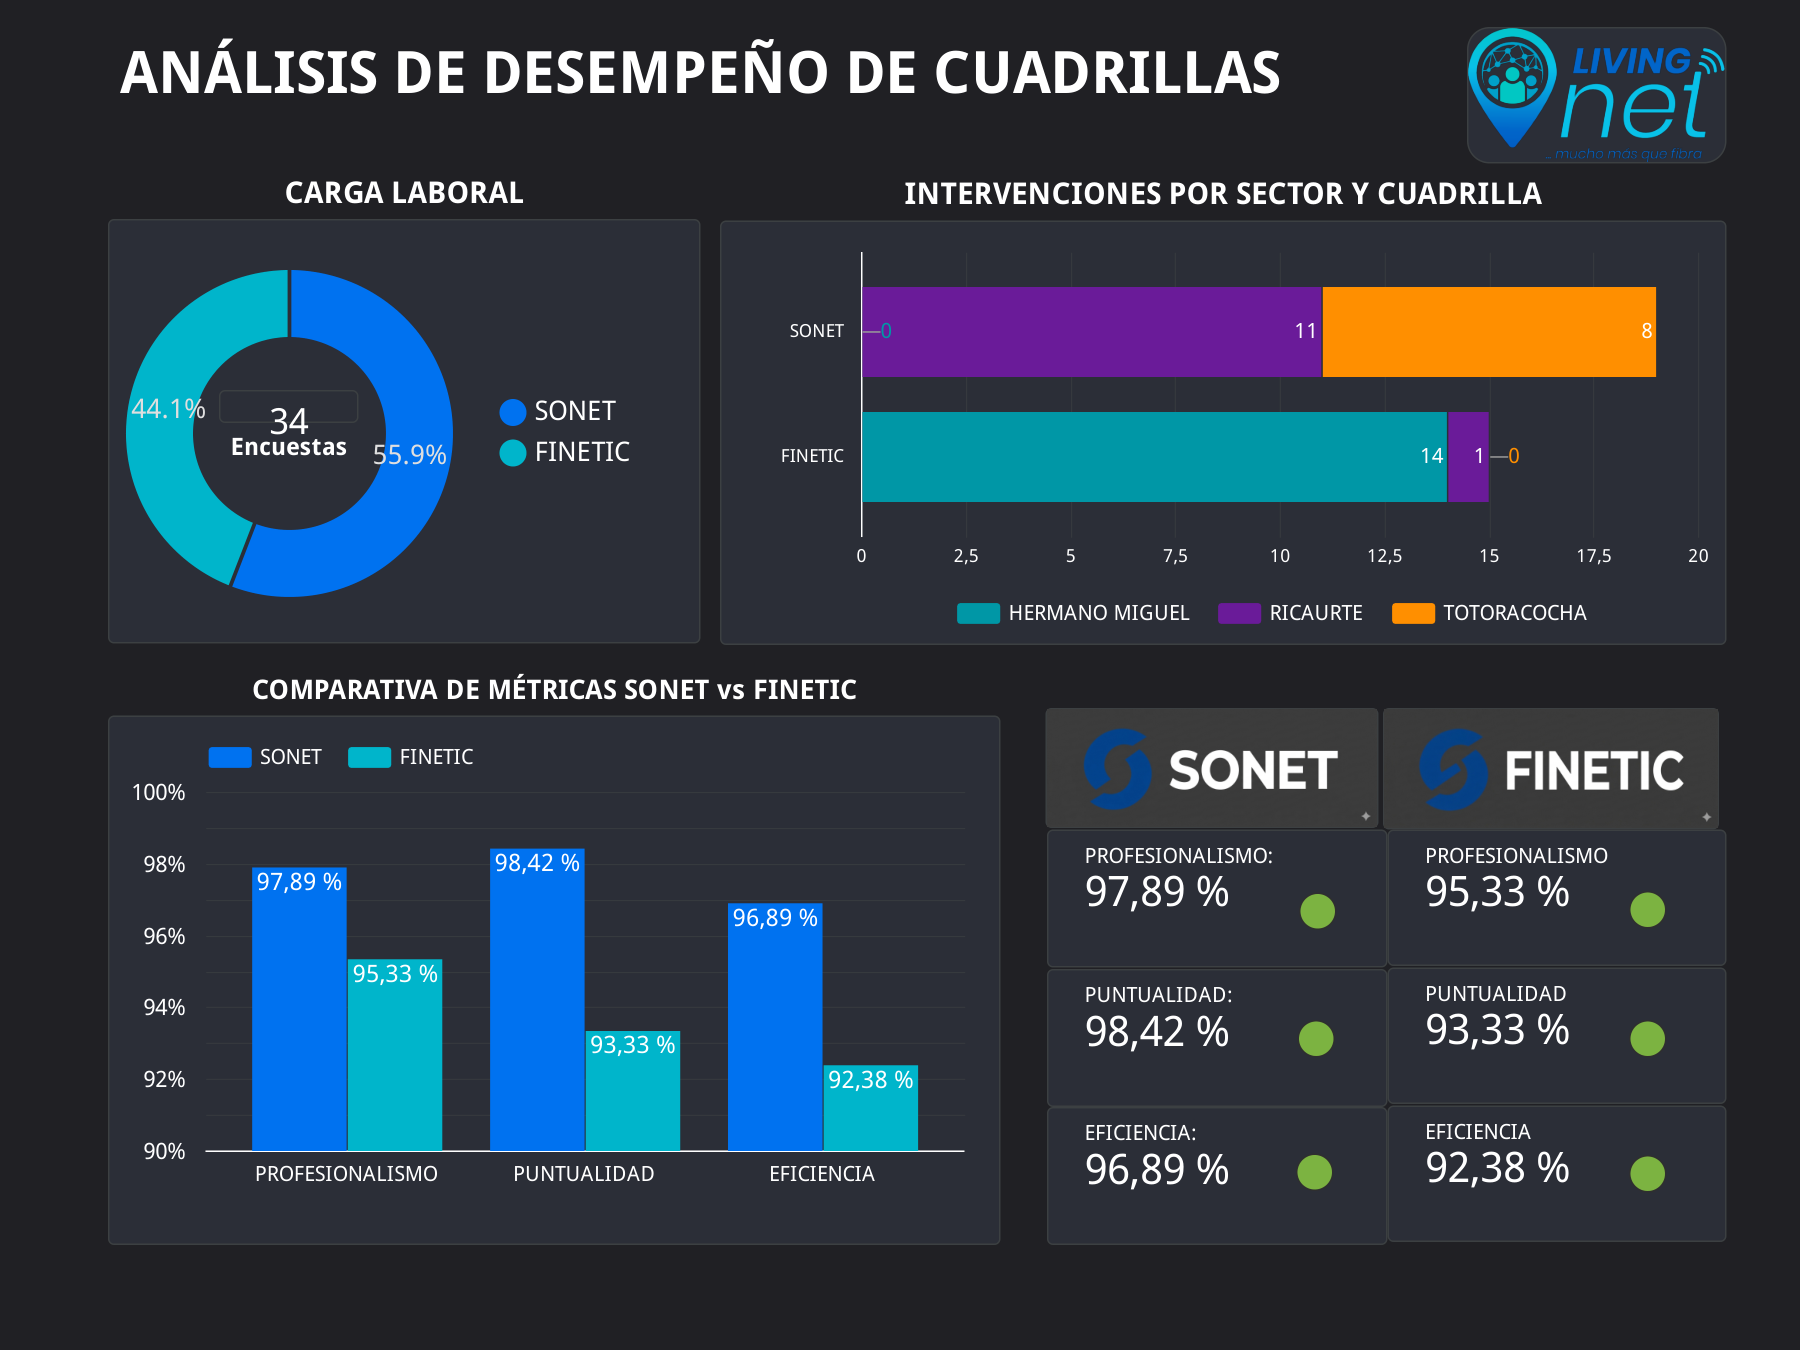
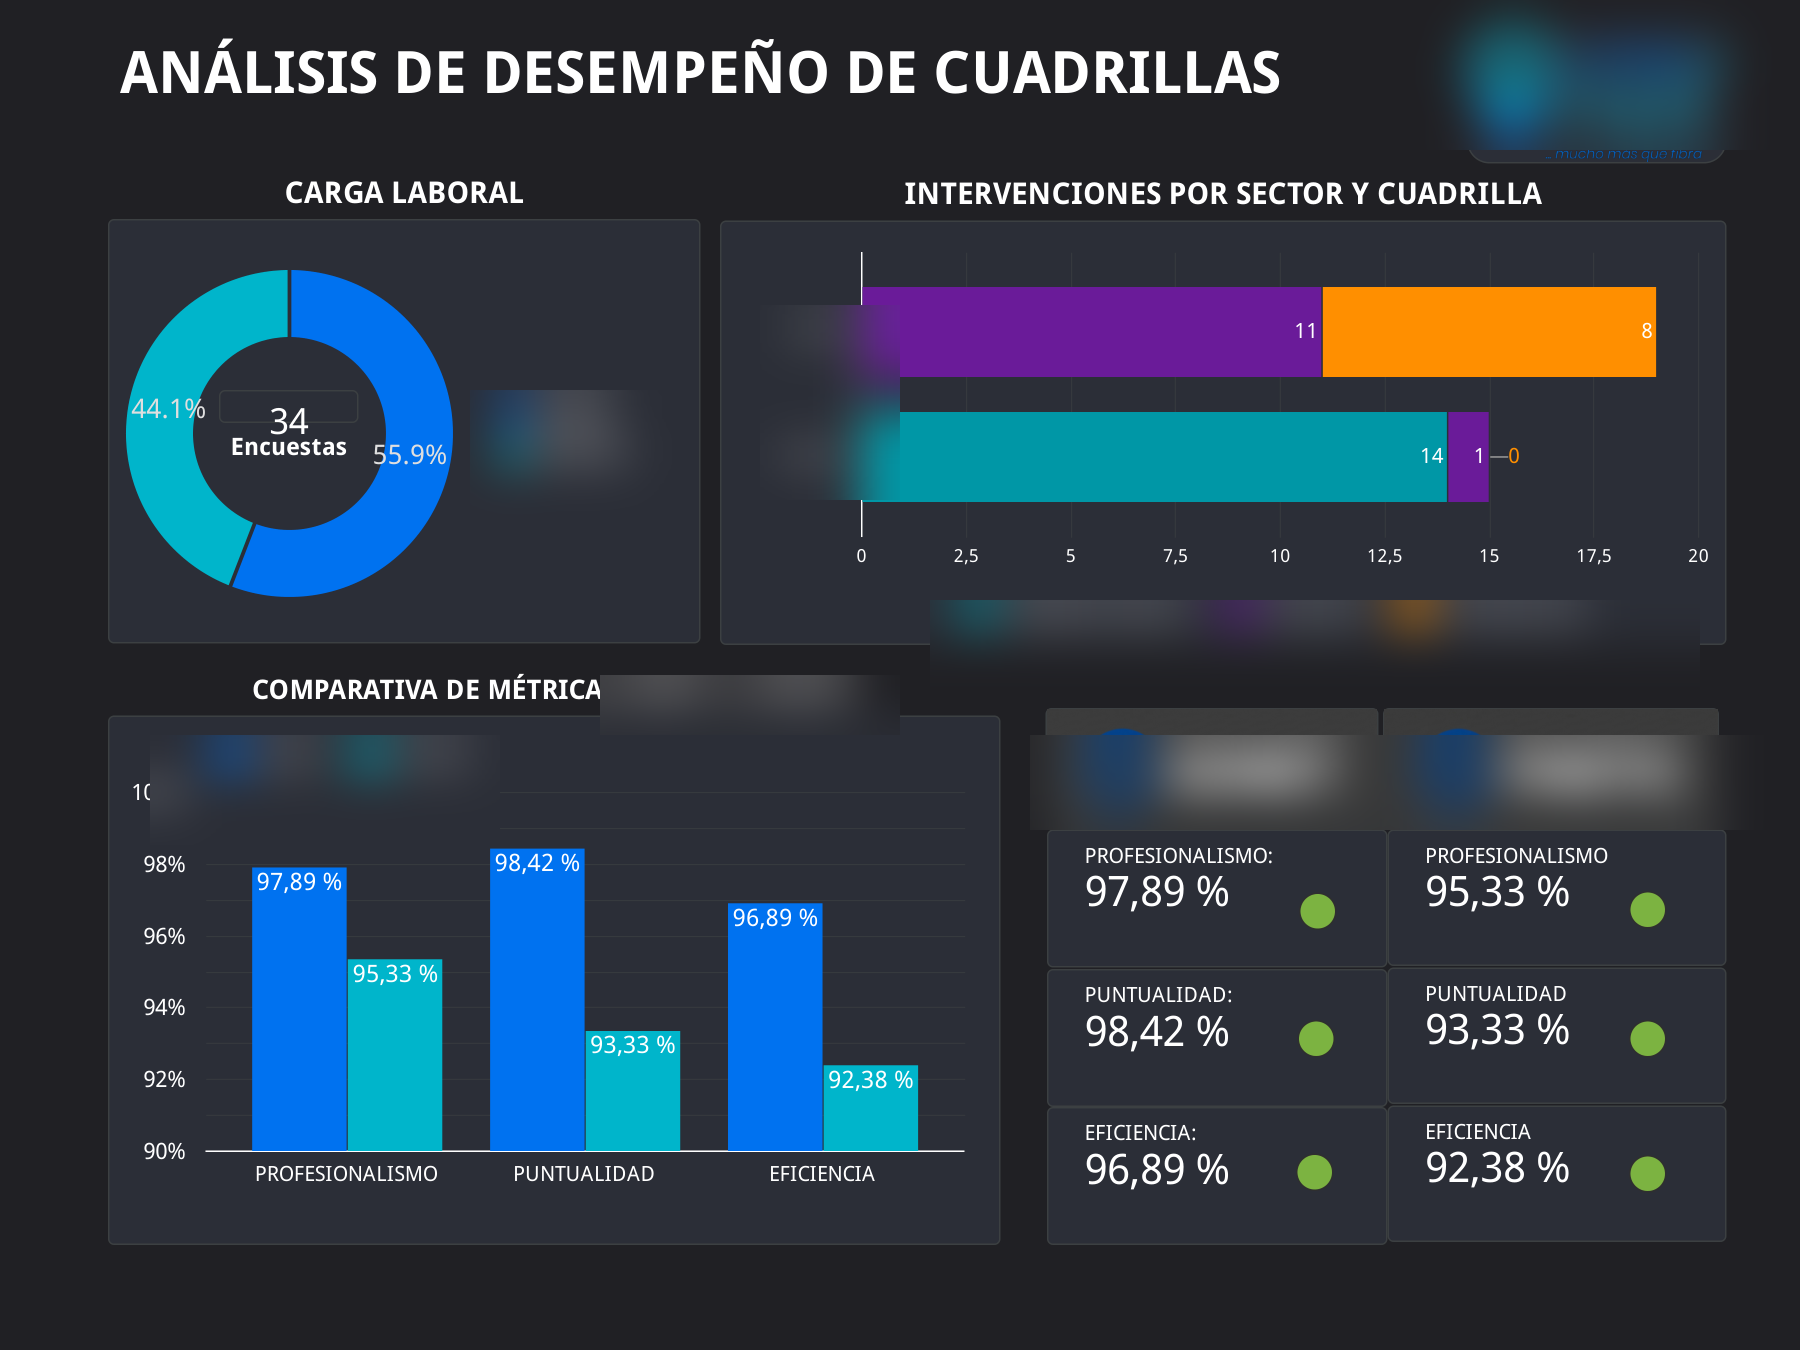
Evidencia: miniaturas con lightbox; blur de nombres y marca en dashboards SONET

diff --git a/components/evidence.tsx b/components/evidence.tsx
@@ -1,0 +1,183 @@
+"use client";
+
+import Image from "next/image";
+import { useCallback, useEffect, useRef, useState } from "react";
+import { AnimatePresence, motion, useReducedMotion } from "motion/react";
+import { X } from "@phosphor-icons/react";
+
+export type EvidenceItem = {
+  src: string;
+  width: number;
+  height: number;
+  alt: string;
+  caption: string;
+  sizes?: string;
+  thumbClassName?: string;
+};
+
+/**
+ * Isla cliente: miniaturas de evidencia que abren un flotante (lightbox).
+ * Cierra con Escape, clic en el scrim y boton; atrapa el foco y lo devuelve
+ * al disparador; bloquea el scroll del fondo. Respeta prefers-reduced-motion.
+ */
+export function EvidenceGallery({
+  items,
+  className = "",
+}: {
+  items: EvidenceItem[];
+  className?: string;
+}) {
+  const [active, setActive] = useState<number | null>(null);
+  const reduce = useReducedMotion();
+  const triggerRefs = useRef<Array<HTMLButtonElement | null>>([]);
+  const lastIndexRef = useRef<number | null>(null);
+  const panelRef = useRef<HTMLDivElement | null>(null);
+  const closeRef = useRef<HTMLButtonElement | null>(null);
+
+  const open = (index: number) => {
+    lastIndexRef.current = index;
+    setActive(index);
+  };
+
+  const close = useCallback(() => {
+    setActive(null);
+    const last = lastIndexRef.current;
+    if (last !== null) triggerRefs.current[last]?.focus();
+  }, []);
+
+  useEffect(() => {
+    if (active === null) return;
+
+    document.body.style.overflow = "hidden";
+    closeRef.current?.focus();
+
+    const onKey = (event: KeyboardEvent) => {
+      if (event.key === "Escape") {
+        event.preventDefault();
+        close();
+        return;
+      }
+      if (event.key !== "Tab") return;
+      const panel = panelRef.current;
+      if (!panel) return;
+      const focusable = Array.from(
+        panel.querySelectorAll<HTMLElement>(
+          'a[href], button:not([disabled]), [tabindex]:not([tabindex="-1"])',
+        ),
+      );
+      if (focusable.length === 0) return;
+      const first = focusable[0];
+      const last = focusable[focusable.length - 1];
+      const current = document.activeElement;
+      if (event.shiftKey) {
+        if (current === first || !panel.contains(current)) {
+          event.preventDefault();
+          last.focus();
+        }
+      } else if (current === last || !panel.contains(current)) {
+        event.preventDefault();
+        first.focus();
+      }
+    };
+
+    document.addEventListener("keydown", onKey);
+    return () => {
+      document.removeEventListener("keydown", onKey);
+      document.body.style.overflow = "";
+    };
+  }, [active, close]);
+
+  const item = active !== null ? items[active] : null;
+
+  return (
+    <div className={className}>
+      <ul className="flex flex-wrap gap-4">
+        {items.map((entry, index) => (
+          <li
+            key={entry.src}
+            className={entry.thumbClassName ?? "w-[180px] sm:w-[220px]"}
+          >
+            <figure>
+              <button
+                type="button"
+                ref={(element) => {
+                  triggerRefs.current[index] = element;
+                }}
+                onClick={() => open(index)}
+                className="group block w-full overflow-hidden rounded-[var(--radius-md)] border border-border bg-bg-elevated shadow-md transition-transform duration-150 active:scale-[0.99]"
+              >
+                <Image
+                  src={entry.src}
+                  alt={entry.alt}
+                  width={entry.width}
+                  height={entry.height}
+                  sizes={entry.sizes ?? "220px"}
+                  loading="lazy"
+                  className="h-auto w-full object-cover transition-transform duration-220 group-hover:scale-[1.02]"
+                />
+              </button>
+              <figcaption className="t-caption text-ink-muted mt-2">
+                {entry.caption}
+              </figcaption>
+            </figure>
+          </li>
+        ))}
+      </ul>
+
+      <AnimatePresence>
+        {item ? (
+          <motion.div
+            key="evidence-lightbox"
+            ref={panelRef}
+            role="dialog"
+            aria-modal="true"
+            aria-label={`Vista ampliada: ${item.alt}`}
+            className="fixed inset-0 z-[70] flex items-center justify-center p-4 md:p-8"
+            initial={reduce ? false : { opacity: 0 }}
+            animate={{ opacity: 1 }}
+            exit={{ opacity: 0 }}
+            transition={reduce ? { duration: 0 } : { duration: 0.2, ease: [0.22, 1, 0.36, 1] }}
+          >
+            <div
+              className="absolute inset-0 bg-ink/75 backdrop-blur-sm"
+              onClick={close}
+              aria-hidden="true"
+            />
+
+            <button
+              type="button"
+              ref={closeRef}
+              onClick={close}
+              aria-label="Cerrar vista ampliada"
+              className="absolute right-4 top-4 z-[2] inline-flex h-10 w-10 items-center justify-center rounded-[var(--radius-sm)] border border-border bg-bg text-ink shadow-md transition-colors duration-150 hover:bg-accent-soft"
+            >
+              <X size={20} weight="regular" aria-hidden="true" />
+            </button>
+
+            <motion.div
+              className="relative z-[1] flex max-h-full w-full max-w-[1100px] flex-col items-center"
+              initial={reduce ? false : { opacity: 0, scale: 0.98 }}
+              animate={{ opacity: 1, scale: 1 }}
+              exit={reduce ? { opacity: 1 } : { opacity: 0, scale: 0.98 }}
+              transition={
+                reduce ? { duration: 0 } : { duration: 0.22, ease: [0.22, 1, 0.36, 1] }
+              }
+            >
+              <Image
+                src={item.src}
+                alt={item.alt}
+                width={item.width}
+                height={item.height}
+                sizes="90vw"
+                className="mx-auto block h-auto max-h-[80dvh] w-auto max-w-full rounded-[var(--radius-md)] object-contain shadow-md"
+              />
+              <p className="t-caption mt-3 max-w-[70ch] text-center text-bg">
+                {item.caption}
+              </p>
+            </motion.div>
+          </motion.div>
+        ) : null}
+      </AnimatePresence>
+    </div>
+  );
+}

diff --git a/app/page.tsx b/app/page.tsx
@@ -9,6 +9,7 @@ import {
   Section,
   StatusTag,
 } from "@/components/ui";
+import { EvidenceGallery } from "@/components/evidence";
 import { Stack } from "@/components/stack";
 import { Reveal } from "@/components/reveal";
 import { MAILTO, REPO_URL, SITE } from "@/lib/site";
@@ -277,24 +278,27 @@ export default function HomePage() {
                 },
               ]}
               image={
-                <div className="mt-5 grid grid-cols-1 gap-4 md:grid-cols-2 md:gap-6">
-                  <EvidenceFigure
-                    src="/assets/isp/informe-rendimiento.png"
-                    width={1800}
-                    height={1351}
-                    alt="Dashboard del Informe de Rendimiento SONET con CSAT, tiempo de espera y valoración del trato"
-                    sizes="(max-width: 768px) 100vw, 42vw"
-                    caption="Informe de Rendimiento SONET: satisfacción del usuario y tiempos de atención."
-                  />
-                  <EvidenceFigure
-                    src="/assets/isp/desempeno-cuadrillas.png"
-                    width={1800}
-                    height={1351}
-                    alt="Dashboard del Análisis de desempeño de cuadrillas"
-                    sizes="(max-width: 768px) 100vw, 42vw"
-                    caption="Análisis de desempeño de cuadrillas: métricas operativas por equipo."
-                  />
-                </div>
+                <EvidenceGallery
+                  className="mt-5"
+                  items={[
+                    {
+                      src: "/assets/isp/informe-rendimiento.png",
+                      width: 1800,
+                      height: 1351,
+                      alt: "Dashboard del Informe de Rendimiento SONET con CSAT, tiempo de espera y valoración del trato",
+                      caption: "Informe de Rendimiento SONET.",
+                      sizes: "220px",
+                    },
+                    {
+                      src: "/assets/isp/desempeno-cuadrillas.png",
+                      width: 1800,
+                      height: 1351,
+                      alt: "Dashboard del Análisis de desempeño de cuadrillas",
+                      caption: "Análisis de desempeño de cuadrillas.",
+                      sizes: "220px",
+                    },
+                  ]}
+                />
               }
             />
           </Reveal>
@@ -413,15 +417,21 @@ export default function HomePage() {
         </div>
 
         <Reveal>
-          <EvidenceFigure
-            src="/assets/kira/workflow-n8n.png"
-            width={2400}
-            height={448}
-            alt="Flujo de trabajo del agente KIRA AI en n8n"
-            sizes="(max-width: 768px) 100vw, 54vw"
-            className="mx-auto mt-8 w-full max-w-[760px]"
-            caption="Flujo de trabajo del agente KIRA AI en n8n."
-          />
+          <div className="mt-8 flex justify-center">
+            <EvidenceGallery
+              items={[
+                {
+                  src: "/assets/kira/workflow-n8n.png",
+                  width: 2400,
+                  height: 448,
+                  alt: "Flujo de trabajo del agente KIRA AI en n8n",
+                  caption: "Flujo de trabajo del agente KIRA AI en n8n.",
+                  sizes: "300px",
+                  thumbClassName: "w-[240px] sm:w-[300px]",
+                },
+              ]}
+            />
+          </div>
         </Reveal>
       </Section>
 
